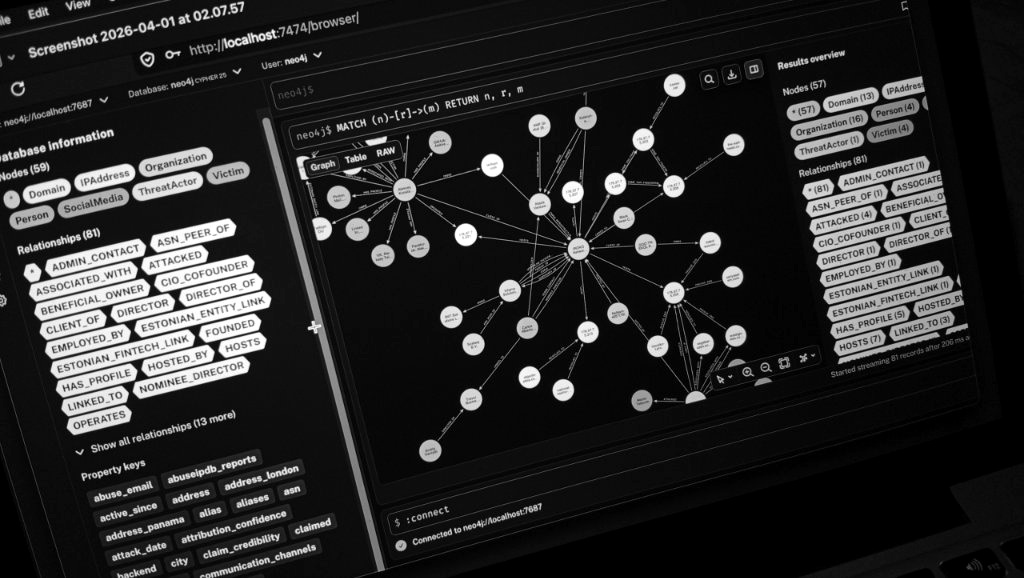
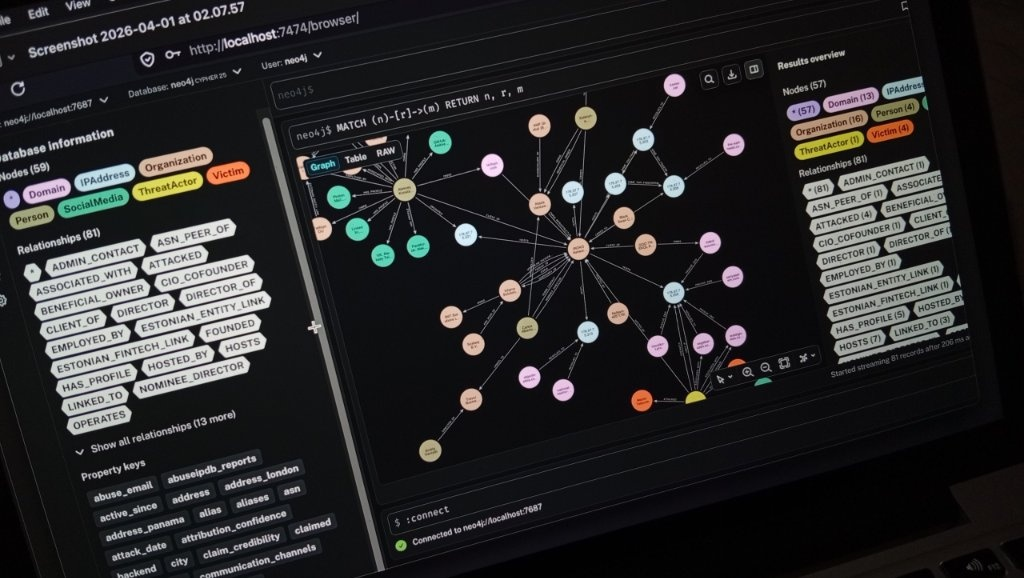
Restore full color to graph images on hover while keeping monochrome dark default state

diff --git a/case-bashe-apt73.html b/case-bashe-apt73.html
@@ -11,6 +11,14 @@
     <link rel="stylesheet" href="style.css">
     <style>
         .fade-in { opacity: 1 !important; transform: none !important; }
+        .graph-hover-img {
+            filter: grayscale(100%) contrast(1.12);
+            transition: filter 0.4s ease, transform 0.4s ease;
+        }
+        a:hover .graph-hover-img,
+        .terminal-window:hover .graph-hover-img {
+            filter: grayscale(0%) contrast(1);
+        }
         .case-summary {
             max-width: 780px;
             color: var(--text-secondary);
@@ -83,13 +91,13 @@
                 </div>
                 <div class="neo4j-grid">
                     <a href="assets/images/apt73_neo4j_1.jpg" target="_blank" style="display: flex; flex-direction: column; justify-content: space-between; background: #080808; border: 1px solid #1c1c1c; border-radius: 6px; overflow: hidden; text-decoration: none;">
-                        <img src="assets/images/apt73_neo4j_1.jpg" alt="Neo4j View 1 — AS9009 / IROKO Networks" style="width: 100%; height: 390px; object-fit: cover; display: block;">
+                        <img class="graph-hover-img" src="assets/images/apt73_neo4j_1.jpg" alt="Neo4j View 1 — AS9009 / IROKO Networks" style="width: 100%; height: 390px; object-fit: cover; display: block;">
                         <div style="padding: 10px 14px; font-family: var(--font-mono); font-size: 0.72rem; color: var(--text-secondary); border-top: 1px solid #1a1a1a; background: #0d0d0d;">
                             [ FIG 2.1 ] AS9009 / IROKO Networks &amp; Entity Links ↗
                         </div>
                     </a>
                     <a href="assets/images/apt73_neo4j_2.jpg" target="_blank" style="display: flex; flex-direction: column; justify-content: space-between; background: #080808; border: 1px solid #1c1c1c; border-radius: 6px; overflow: hidden; text-decoration: none;">
-                        <img src="assets/images/apt73_neo4j_2.jpg" alt="Neo4j View 2 — Full 87-Node / 111-Relationship Topology" style="width: 100%; height: 390px; object-fit: cover; display: block;">
+                        <img class="graph-hover-img" src="assets/images/apt73_neo4j_2.jpg" alt="Neo4j View 2 — Full 87-Node / 111-Relationship Topology" style="width: 100%; height: 390px; object-fit: cover; display: block;">
                         <div style="padding: 10px 14px; font-family: var(--font-mono); font-size: 0.72rem; color: var(--text-secondary); border-top: 1px solid #1a1a1a; background: #0d0d0d;">
                             [ FIG 2.2 ] Full 87-Node / 111-Relationship Topology ↗
                         </div>

diff --git a/case-0x-whitfield.html b/case-0x-whitfield.html
@@ -11,6 +11,14 @@
     <link rel="stylesheet" href="style.css">
     <style>
         .fade-in { opacity: 1 !important; transform: none !important; }
+        .graph-hover-img {
+            filter: grayscale(100%) contrast(1.12);
+            transition: filter 0.4s ease, transform 0.4s ease;
+        }
+        a:hover .graph-hover-img,
+        .terminal-window:hover .graph-hover-img {
+            filter: grayscale(0%) contrast(1);
+        }
         .case-summary {
             max-width: 780px;
             color: var(--text-secondary);
@@ -76,7 +84,7 @@
                 </div>
                 <div style="background: #000; padding: 12px;">
                     <a href="assets/images/coinshaper_tree.jpg" target="_blank" title="Open Full-Resolution 50-Node OSINT Investigation Graph">
-                        <img src="assets/images/coinshaper_tree.jpg" alt="TARGET: 0x [ Whitfield ] (@coinshaper) 50-Node OSINT Tree" style="width: 100%; height: auto; display: block; border-radius: 4px;">
+                        <img class="graph-hover-img" src="assets/images/coinshaper_tree.jpg" alt="TARGET: 0x [ Whitfield ] (@coinshaper) 50-Node OSINT Tree" style="width: 100%; height: auto; display: block; border-radius: 4px;">
                     </a>
                 </div>
             </div>

diff --git a/declassified.html b/declassified.html
@@ -49,10 +49,11 @@
             width: 100%;
             height: 100%;
             object-fit: cover;
-            filter: grayscale(100%) contrast(1.1);
-            transition: transform 0.4s ease;
+            filter: grayscale(100%) contrast(1.12);
+            transition: filter 0.4s ease, transform 0.4s ease;
         }
         .dossier-card:hover .dossier-thumb img {
+            filter: grayscale(0%) contrast(1);
             transform: scale(1.03);
         }
         .dossier-body {
